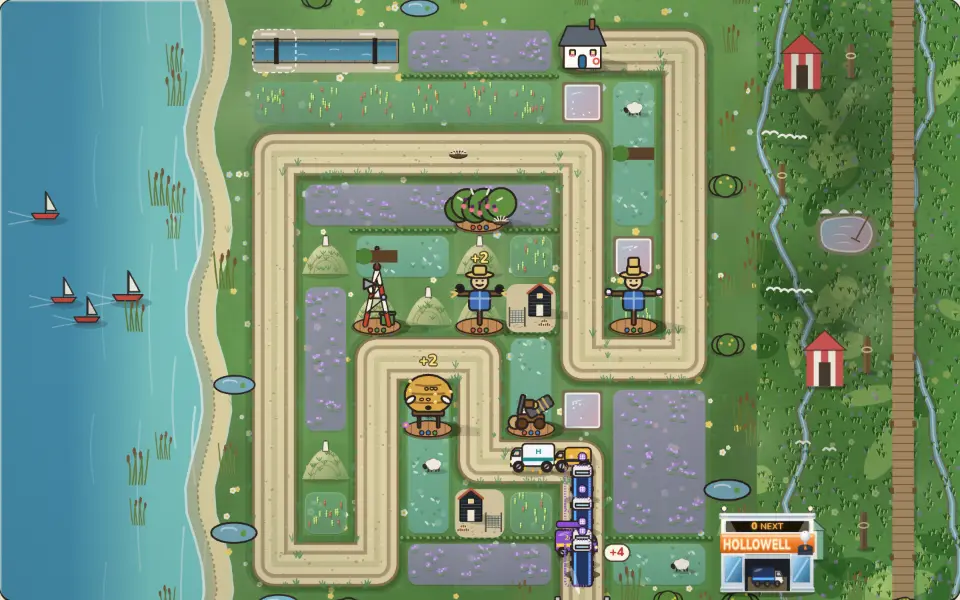
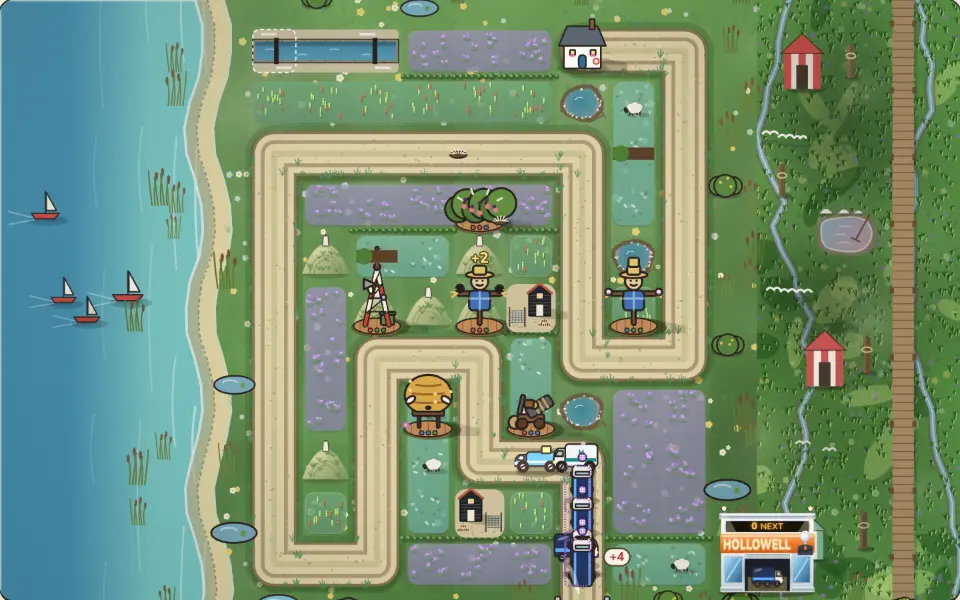
416 slice 2: Saltmarsh's salt pans are brine pools in the marsh (uneven clay bank, teal brine pinking at the shallows, salt crusted on the shore, a rake), not square glassy tiles; key art re-shot
Claude-Session: https://claude.ai/code/session_01SimvMN1RHBGCWN7Eo7MzhN

diff --git a/games/hedgerow/src/fieldkitart.ts b/games/hedgerow/src/fieldkitart.ts
@@ -807,35 +807,51 @@ export function paintKitWater(ctx: C, x: number, y: number, s: number, look: Wat
   const r01 = rng(seed);
   ctx.save();
   if (look === "saltpan") {
-    // A square pan cut into the marsh: a clay bank, still brine going pink, a white crust at its edges.
-    const i = s * 0.1;
-    ctx.fillStyle = "rgba(122,104,78,0.9)";
-    ctx.beginPath();
-    ctx.roundRect(x + i, y + i, s - i * 2, s - i * 2, s * 0.06);
-    ctx.fill();
-    const g = ctx.createLinearGradient(x, y + i, x + s, y + s - i);
-    g.addColorStop(0, "rgba(176,206,214,0.95)");
-    g.addColorStop(0.6, "rgba(196,178,196,0.95)");
-    g.addColorStop(1, "rgba(214,170,170,0.95)");
-    ctx.fillStyle = g;
-    const j = s * 0.17;
-    ctx.beginPath();
-    ctx.roundRect(x + j, y + j, s - j * 2, s - j * 2, s * 0.04);
-    ctx.fill();
-    ctx.strokeStyle = "rgba(252,252,248,0.9)";
-    ctx.lineWidth = Math.max(1, s * 0.035);
-    // A solid crust, not dashes: a dashed pale edge reads as the build stitch (item 345).
-    ctx.stroke();
-    // Crystals drifting on the brine, and the sky's glint.
-    ctx.fillStyle = "rgba(255,255,255,0.85)";
-    for (let k = 0; k < 5; k++) {
+    // Plan item 416: a brine pan dug into the marsh, not a square tile: an uneven clay bank, deep teal brine going pink
+    // at its shallow edges, crusted salt crystals along the shore, a ripple, and the raker's wooden rake laid by it.
+    const cx = x + s * 0.5, cy = y + s * 0.52;
+    const blob = (rx: number, ry: number, wob: number) => {
       ctx.beginPath();
-      ctx.rect(x + j + (s - j * 2) * (0.15 + r01() * 0.7), y + j + (s - j * 2) * (0.15 + r01() * 0.7), s * 0.03, s * 0.03);
+      for (let k = 0; k <= 16; k++) {
+        const a = (k / 16) * Math.PI * 2;
+        const w = 1 + Math.sin(a * 3 + seed) * wob + Math.cos(a * 5 + seed * 0.7) * wob * 0.6;
+        const px = cx + Math.cos(a) * rx * w, py = cy + Math.sin(a) * ry * w;
+        if (k === 0) ctx.moveTo(px, py);
+        else ctx.lineTo(px, py);
+      }
+      ctx.closePath();
+    };
+    ctx.fillStyle = "rgba(108,88,64,0.92)";
+    blob(s * 0.43, s * 0.37, 0.05);
+    ctx.fill();
+    const g = ctx.createRadialGradient(cx - s * 0.06, cy - s * 0.05, s * 0.04, cx, cy, s * 0.38);
+    g.addColorStop(0, "rgba(64,136,150,0.97)");
+    g.addColorStop(0.7, "rgba(92,150,160,0.96)");
+    g.addColorStop(1, "rgba(196,150,162,0.95)");
+    ctx.fillStyle = g;
+    blob(s * 0.35, s * 0.29, 0.06);
+    ctx.fill();
+    // Salt crusted along the shore: small white crystals, thicker on the sunny side.
+    for (let k = 0; k < 22; k++) {
+      const a = r01() * Math.PI * 2;
+      const d = 0.9 + r01() * 0.14;
+      const px = cx + Math.cos(a) * s * 0.35 * d, py = cy + Math.sin(a) * s * 0.29 * d;
+      ctx.fillStyle = `rgba(252,252,248,${0.75 + r01() * 0.25})`;
+      ctx.beginPath();
+      ctx.rect(px - s * 0.012, py - s * 0.012, s * (0.02 + r01() * 0.015), s * (0.02 + r01() * 0.015));
       ctx.fill();
     }
-    ctx.strokeStyle = "rgba(255,255,255,0.6)";
-    ctx.lineWidth = Math.max(1, s * 0.025);
-    line(ctx, [x + s * 0.3, y + s * 0.34], [x + s * 0.48, y + s * 0.3]);
+    // A ripple catching the sky.
+    ctx.strokeStyle = "rgba(226,244,246,0.7)";
+    ctx.lineWidth = Math.max(1, s * 0.02);
+    ctx.beginPath();
+    ctx.arc(cx - s * 0.05, cy - s * 0.02, s * 0.1, Math.PI * 1.15, Math.PI * 1.7);
+    ctx.stroke();
+    // The rake, laid on the bank.
+    ctx.strokeStyle = "#7a5634";
+    ctx.lineWidth = Math.max(1, s * 0.022);
+    line(ctx, [x + s * 0.62, y + s * 0.9], [x + s * 0.92, y + s * 0.74]);
+    line(ctx, [x + s * 0.88, y + s * 0.68], [x + s * 0.96, y + s * 0.82]);
   } else if (look === "peatpool") {
     // A peat pool: a black-brown hag of a bank, dark still water, cotton-grass nodding white along its edge.
     const cx = x + s * 0.5, cy = y + s * 0.52;

diff --git a/docs/plan/two-week-plan.md b/docs/plan/two-week-plan.md
@@ -3957,7 +3957,7 @@ The items come from fresh-eyes audits on 2026-11-01 and 2026-11-02 (items 25-32:
 - **Accept:** the six thumbnails pairwise distinct (image hash); hovering chapter N outlines pin N (computed style); exactly one progress indicator; campaign specs pass; shots P and D before and after.
 - **Size:** 2
 
-## 416. [ ] The bugs from the 2026-11-15 09:40 critique, fixed as one batch *(lane B, in progress)* *(slice 1, 2026-11-15 09:40 lane B: four-to-a-row rack packets: the corner role glyph stands down (the role is in words), the tower sits in its corner left of the price, and the role word keeps 3 px off the rounded foot (was cut 1-3 px); 'Court-house' is item 361's deliberate hyphenation of a one-word name. cath-setup-P: the tag now a short 'More ▾' at the Start sign's right corner, clear of the steps' left-run headings. setup (P/D 30), rack and tray (16) pass. Shots `b416`)*
+## 416. [ ] The bugs from the 2026-11-15 09:40 critique, fixed as one batch *(lane B, in progress)* *(slice 1, 2026-11-15 09:40 lane B: four-to-a-row rack packets: the corner role glyph stands down (the role is in words), the tower sits in its corner left of the price, and the role word keeps 3 px off the rounded foot (was cut 1-3 px); 'Court-house' is item 361's deliberate hyphenation of a one-word name. cath-setup-P: the tag now a short 'More ▾' at the Start sign's right corner, clear of the steps' left-run headings. setup (P/D 30), rack and tray (16) pass. Shots `b416`)* *(slice 2, 09:45 lane B: Saltmarsh's salt pans (item 399) read as glassy square UI tiles: now an uneven brine pool, a wet clay bank, deep teal water going pink at its shallows, salt crystals crusted on the shore, a ripple and a rake on the bank; key art re-shot; water, fieldkit, field pass (10). Shot `b416/pan2`)*
 - **Build:** (check each first; shots `e2e/screenshots/plan1115c`)
   - **Hedgerow:** `hedge-l21-2d-D` the rack's role words cut at each card's foot (1110-1410 x 160-168, 250-256, 338-345: item 408); `hedge-l34-2d-D` 'Market Stall' on two lines pushing 'Earns' off its card, 'Court-house' hyphenated; Saltmarsh's salt pans read as pale glassy UI squares (`hedge-l21-2d-D` 750-795 x 305-355, P 60-100 x 470-505; item 399) and should read as water; `hedge-*-P` a sliver of rack between Cath's dock and the bar (30-330 x 752-764); `hedge-l21-3d-D` the farmers taller than the farmhouse (765-800 x 420-500; 560-625 x 545-640); `hedge-menu-D` 'Brand Ambassador' under node 30's office block (50-215 x 750-858).
   - **Cathnivore:** `cath-setup-P` the 'More below' tag over step 3's heading (130-260 x 755-778: item 409); `cath-game-P` a gap in the hand dock and the third card cut at the right (120-390 x 670-775); `cath-setup-D` the market note over Cath's torso (1055-1215 x 540-765); `cath-setup-D` 'Two at the table' tile unframed (105-265 x 340-445); `cath-game-D` the Ledger mostly empty paper (30-315 x 630-800); the MARKET '2' badge clipped (1290-1330 x 15-40).
